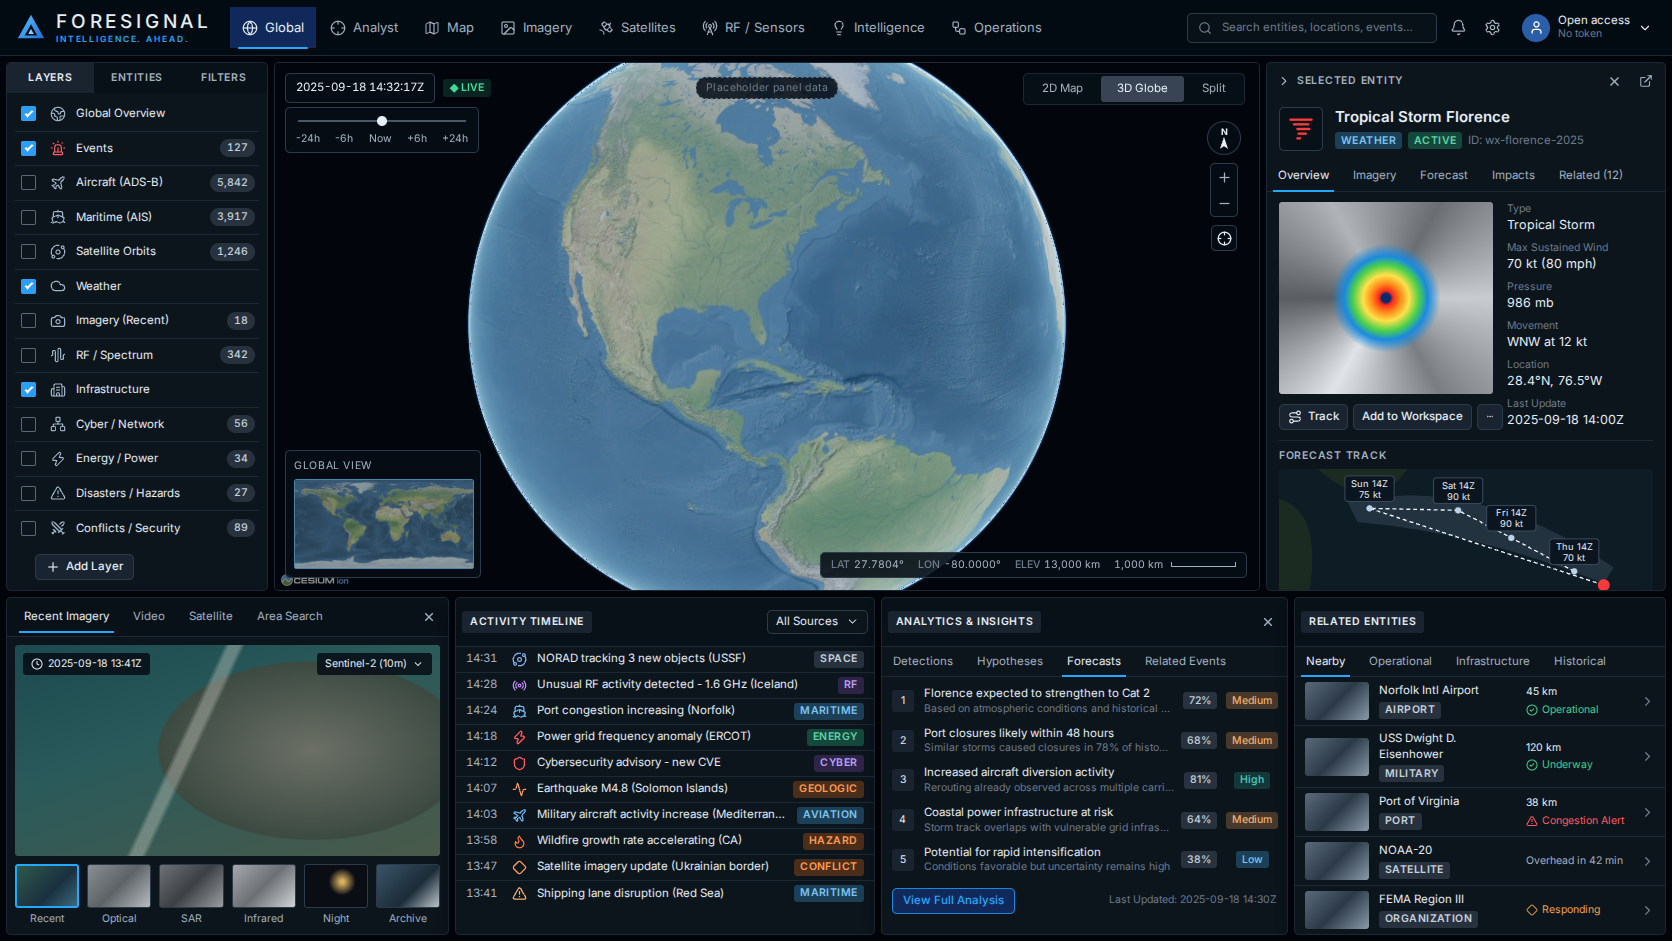
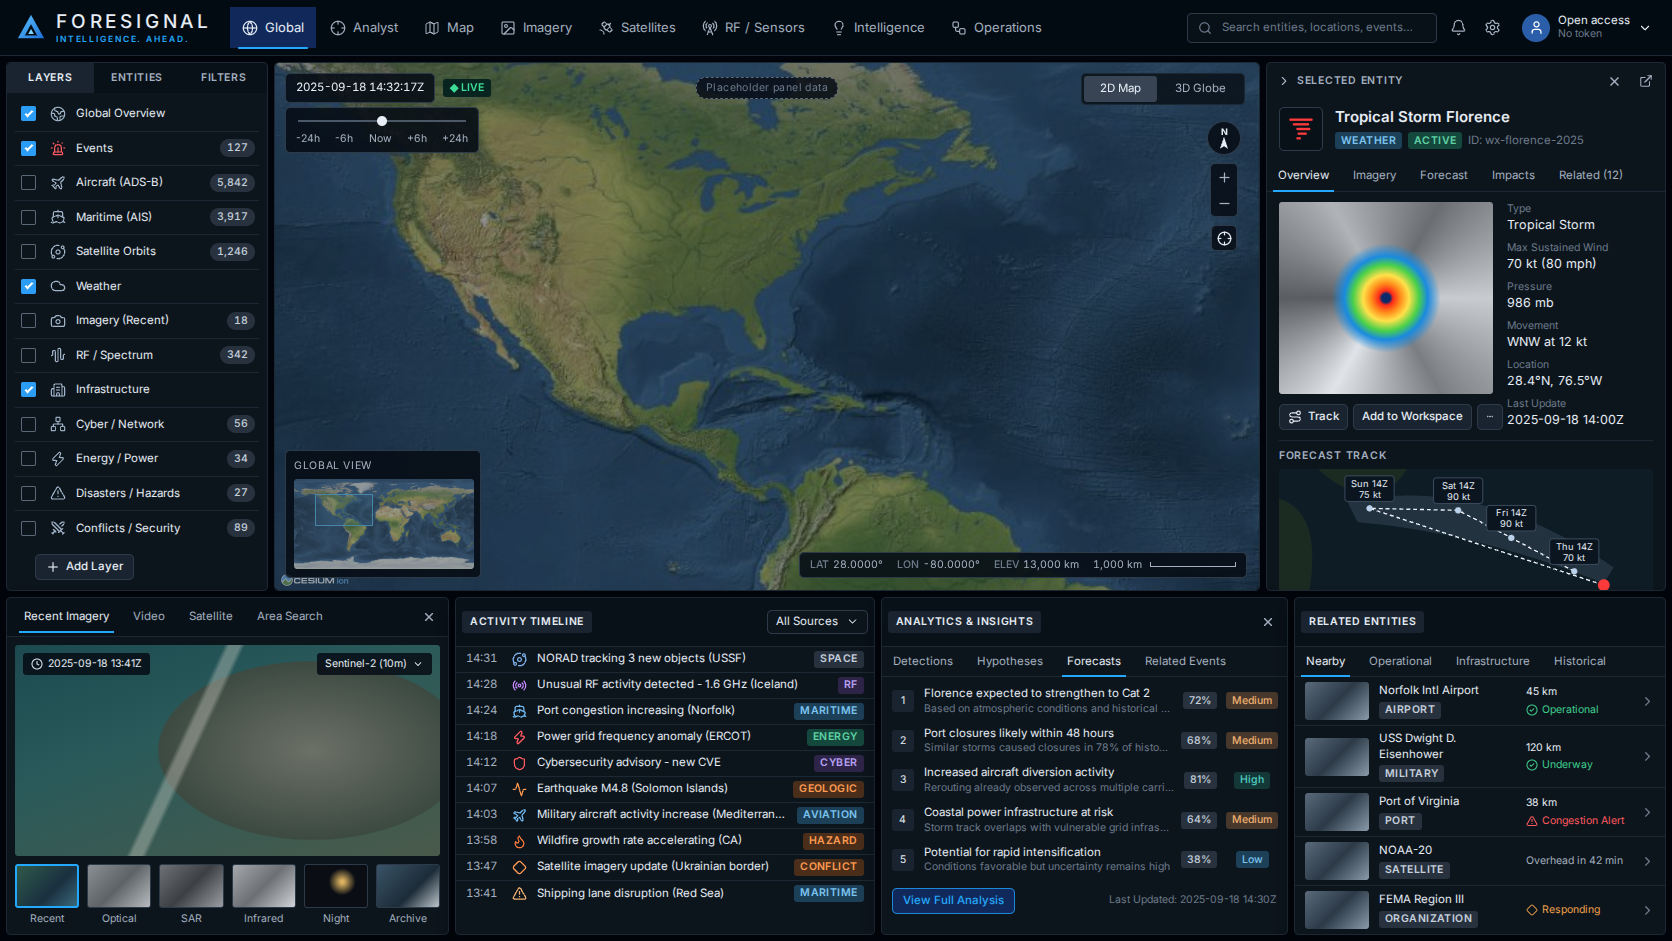
005: 2D by default, 2D/3D toggle, no Split
The map opens in 2D. The toggle offers 2D Map and 3D Globe only; Split
and Columbus view are removed, per the owner's map model (33cf4ff).
Switching modes keeps the user's place: Cesium's morph resets to a
whole-world view, so the camera is put back over the same ground point
at the same height when the morph completes.

Changed region(s): [[0.1555, 0.0616, 0.7775, 0.6472]]

diff --git a/src/map/Viewer.tsx b/src/map/Viewer.tsx
@@ -1,4 +1,4 @@
-import { useCallback, useEffect, useMemo, useState, type ReactNode } from 'react';
+import { useCallback, useEffect, useMemo, useRef, useState, type ReactNode } from 'react';
 import { Viewer as ResiumViewer, useCesium } from 'resium';
 import {
   Cartesian2,
@@ -9,17 +9,20 @@ import {
 import { createBaseLayer, insetTileUrls } from './imagery';
 import { MapHud, type CameraState } from './MapHud';
 import { niceScale } from './readout';
-import { applySceneMode, type SceneModeKey } from './sceneMode';
-import { homeDestination, styleScene, supportsWebGL } from './view';
+import { DEFAULT_SCENE_MODE, SCENE_MODES, type SceneModeKey } from './sceneMode';
+import { homeDestination, styleScene, supportsWebGL, switchSceneMode } from './view';
 import styles from './Viewer.module.css';
+
+/** How long a 2D/3D switch animates, in seconds. */
+const MORPH_SECONDS = 1;
 
 /** Widest scale bar, in CSS pixels. */
 const SCALE_MAX_PIXELS = 100;
 
 /**
  * Reads the camera into HUD state. Latitude and longitude are the ground point under the center of
- * the view, which is what a reader expects in every mode: in Columbus view a tilted camera sits
- * beyond the edge of the map, so its own position is not a place. When the center misses the
+ * the view, read the same way in 2D and 3D: a tilted 3D camera looks at a place other than the one
+ * beneath it, and the readout follows what is looked at. When the center misses the
  * globe (space behind a 3D limb), the camera's own position is used. Elevation is the camera's
  * height above the ellipsoid.
  */
@@ -133,20 +136,27 @@ export interface MapViewerProps {
 
 /**
  * The map engine: a Resium viewer with Cesium's own widgets removed, the bundled Natural Earth II
- * base layer, the 2D Map / 3D Globe / Split toggle, and the DOM HUD (compass, zoom, inset,
+ * base layer, the 2D Map / 3D Globe toggle (2D by default), and the DOM HUD (compass, zoom, inset,
  * lat/lon/elevation readout, scale bar). Renders at device pixel ratio for sharp output.
  */
 export function MapViewer({ children }: MapViewerProps) {
   const [webgl] = useState(supportsWebGL);
   const [viewer, setViewer] = useState<CesiumViewer>();
   const [camera, setCamera] = useState<CameraState>();
-  const [mode, setMode] = useState<SceneModeKey>('3d');
+  const [mode, setMode] = useState<SceneModeKey>(DEFAULT_SCENE_MODE);
   const insetTiles = useMemo(() => insetTileUrls(), []);
+
+  // The latest camera state, read when switching mode without re-creating the callback each frame.
+  const cameraRef = useRef<CameraState>(undefined);
+  const onCamera = useCallback((state: CameraState) => {
+    cameraRef.current = state;
+    setCamera(state);
+  }, []);
 
   const onSceneMode = useCallback(
     (next: SceneModeKey) => {
       setMode(next);
-      if (viewer) applySceneMode(viewer.scene, next, 1);
+      if (viewer) switchSceneMode(viewer, next, cameraRef.current, MORPH_SECONDS);
     },
     [viewer],
   );
@@ -204,9 +214,10 @@ export function MapViewer({ children }: MapViewerProps) {
         selectionIndicator={false}
         vrButton={false}
         skyBox={false}
+        sceneMode={SCENE_MODES[DEFAULT_SCENE_MODE]}
         useBrowserRecommendedResolution={false}
       >
-        <SceneBridge onReady={setViewer} onCamera={setCamera} />
+        <SceneBridge onReady={setViewer} onCamera={onCamera} />
       </ResiumViewer>
       <MapHud
         mode={mode}

diff --git a/src/map/view.test.ts b/src/map/view.test.ts
@@ -1,5 +1,12 @@
-import { Cartographic, Color, Math as CesiumMath, type Viewer as CesiumViewer } from 'cesium';
-import { HOME_VIEW, homeDestination, styleScene } from './view';
+import {
+  Cartographic,
+  Color,
+  Math as CesiumMath,
+  SceneMode,
+  type Cartesian3,
+  type Viewer as CesiumViewer,
+} from 'cesium';
+import { HOME_VIEW, homeDestination, styleScene, switchSceneMode } from './view';
 
 describe('view', () => {
   it('places the home destination at the home longitude, latitude and height', () => {
@@ -14,5 +21,64 @@ describe('view', () => {
     styleScene(viewer as unknown as CesiumViewer);
     expect(viewer.scene.backgroundColor.toCssHexString()).toBe('#02060c');
     expect(viewer.scene.globe.baseColor.toCssHexString()).toBe('#0b1a2a');
+  });
+});
+
+describe('switchSceneMode', () => {
+  /** A viewer stand-in whose morph completes when `finish()` is called. */
+  function fakeViewer(mode: SceneMode) {
+    const listeners = new Set<() => void>();
+    const morphs: string[] = [];
+    const views: Cartographic[] = [];
+    const viewer = {
+      scene: {
+        mode,
+        morphTo2D: () => morphs.push('2D'),
+        morphTo3D: () => morphs.push('3D'),
+        morphComplete: {
+          addEventListener: (listener: () => void) => {
+            listeners.add(listener);
+            return () => listeners.delete(listener);
+          },
+        },
+      },
+      camera: {
+        setView: ({ destination }: { destination: Cartesian3 }) =>
+          views.push(Cartographic.fromCartesian(destination)),
+      },
+    };
+    const finish = () => [...listeners].forEach((listener) => listener());
+    return { viewer, morphs, views, listeners, finish };
+  }
+
+  const florida = { longitude: -80, latitude: 28, height: 13_000_000 };
+
+  it('morphs, then puts the camera back over the same place at the same height', () => {
+    const { viewer, morphs, views, listeners, finish } = fakeViewer(SceneMode.SCENE2D);
+    expect(switchSceneMode(viewer, '3d', florida)).toBe(true);
+    expect(morphs).toEqual(['3D']);
+    expect(views).toEqual([]);
+    finish();
+    expect(views).toHaveLength(1);
+    expect(CesiumMath.toDegrees(views[0]!.longitude)).toBeCloseTo(-80, 6);
+    expect(CesiumMath.toDegrees(views[0]!.latitude)).toBeCloseTo(28, 6);
+    expect(views[0]!.height).toBeCloseTo(13_000_000, 0);
+    expect(listeners.size).toBe(0);
+  });
+
+  it('leaves no listener behind when already in the requested mode', () => {
+    const { viewer, morphs, listeners } = fakeViewer(SceneMode.SCENE3D);
+    expect(switchSceneMode(viewer, '3d', florida)).toBe(false);
+    expect(morphs).toEqual([]);
+    expect(listeners.size).toBe(0);
+  });
+
+  it('morphs without moving the camera when there is no place to keep', () => {
+    const { viewer, morphs, views, listeners, finish } = fakeViewer(SceneMode.SCENE3D);
+    expect(switchSceneMode(viewer, '2d', undefined)).toBe(true);
+    finish();
+    expect(morphs).toEqual(['2D']);
+    expect(views).toEqual([]);
+    expect(listeners.size).toBe(0);
   });
 });

diff --git a/src/map/sceneMode.test.ts b/src/map/sceneMode.test.ts
@@ -1,5 +1,11 @@
 import { SceneMode } from 'cesium';
-import { applySceneMode, SCENE_MODES, sceneModeKey, type MorphableScene } from './sceneMode';
+import {
+  applySceneMode,
+  DEFAULT_SCENE_MODE,
+  SCENE_MODES,
+  sceneModeKey,
+  type MorphableScene,
+} from './sceneMode';
 
 /** A scene stand-in that records the morph calls it receives. */
 function fakeScene(mode: SceneMode): MorphableScene & { calls: string[] } {
@@ -9,33 +15,33 @@ function fakeScene(mode: SceneMode): MorphableScene & { calls: string[] } {
     calls,
     morphTo2D: (d) => calls.push(`2D:${d}`),
     morphTo3D: (d) => calls.push(`3D:${d}`),
-    morphToColumbusView: (d) => calls.push(`CV:${d}`),
   };
 }
 
 describe('scene modes', () => {
-  it('maps 2D Map, 3D Globe and Split to Cesium modes, Split as Columbus view', () => {
-    expect(SCENE_MODES['2d']).toBe(SceneMode.SCENE2D);
-    expect(SCENE_MODES['3d']).toBe(SceneMode.SCENE3D);
-    expect(SCENE_MODES.split).toBe(SceneMode.COLUMBUS_VIEW);
+  it('opens in 2D and offers only 2D and 3D', () => {
+    expect(DEFAULT_SCENE_MODE).toBe('2d');
+    expect(SCENE_MODES).toEqual({ '2d': SceneMode.SCENE2D, '3d': SceneMode.SCENE3D });
   });
 
-  it('reads a Cesium mode back as a design mode, and morphing as none', () => {
+  it('reads a Cesium mode back as a map mode; morphing and Columbus view as none', () => {
     expect(sceneModeKey(SceneMode.SCENE2D)).toBe('2d');
-    expect(sceneModeKey(SceneMode.COLUMBUS_VIEW)).toBe('split');
+    expect(sceneModeKey(SceneMode.SCENE3D)).toBe('3d');
     expect(sceneModeKey(SceneMode.MORPHING)).toBeUndefined();
+    expect(sceneModeKey(SceneMode.COLUMBUS_VIEW)).toBeUndefined();
   });
 
   it('morphs to the requested mode with the given duration', () => {
-    const scene = fakeScene(SceneMode.SCENE3D);
-    expect(applySceneMode(scene, '2d', 0.5)).toBe(true);
-    expect(applySceneMode(scene, 'split')).toBe(true);
-    expect(scene.calls).toEqual(['2D:0.5', 'CV:1']);
+    const scene = fakeScene(SceneMode.SCENE2D);
+    expect(applySceneMode(scene, '3d', 0.5)).toBe(true);
+    scene.mode = SceneMode.SCENE3D;
+    expect(applySceneMode(scene, '2d')).toBe(true);
+    expect(scene.calls).toEqual(['3D:0.5', '2D:1']);
   });
 
   it('does nothing when already in the requested mode', () => {
-    const scene = fakeScene(SceneMode.SCENE3D);
-    expect(applySceneMode(scene, '3d')).toBe(false);
+    const scene = fakeScene(SceneMode.SCENE2D);
+    expect(applySceneMode(scene, '2d')).toBe(false);
     expect(scene.calls).toEqual([]);
   });
 });

diff --git a/src/map/sceneMode.ts b/src/map/sceneMode.ts
@@ -1,24 +1,23 @@
 import { SceneMode } from 'cesium';
 
-/** The design's map modes: 2D Map, 3D Globe and Split. */
-export type SceneModeKey = '2d' | '3d' | 'split';
+/** The map's two modes: the 2D map (the default) and the 3D globe. There is no Split mode. */
+export type SceneModeKey = '2d' | '3d';
 
-/**
- * Cesium scene mode for each design mode. "Split" is Columbus view (2.5D), per
- * Architecture §5.
- */
+/** The mode the map opens in. */
+export const DEFAULT_SCENE_MODE: SceneModeKey = '2d';
+
+/** Cesium scene mode for each map mode. */
 export const SCENE_MODES: Record<SceneModeKey, SceneMode> = {
   '2d': SceneMode.SCENE2D,
   '3d': SceneMode.SCENE3D,
-  split: SceneMode.COLUMBUS_VIEW,
 };
 
-/** The design mode for a Cesium scene mode; `MORPHING` reports as undefined. */
+/** The map mode for a Cesium scene mode; `MORPHING` and Columbus view report as undefined. */
 export function sceneModeKey(mode: SceneMode): SceneModeKey | undefined {
   return (Object.keys(SCENE_MODES) as SceneModeKey[]).find((key) => SCENE_MODES[key] === mode);
 }
 
-/** The scene methods used to change mode; matches `Scene` from Cesium. */
+/** The scene members used to change mode; matches `Scene` from Cesium. */
 export interface MorphableScene {
   /** Current mode. */
   mode: SceneMode;
@@ -26,18 +25,15 @@ export interface MorphableScene {
   morphTo2D(duration?: number): void;
   /** Morphs to the 3D globe. */
   morphTo3D(duration?: number): void;
-  /** Morphs to Columbus view (2.5D). */
-  morphToColumbusView(duration?: number): void;
 }
 
 /**
- * Morphs `scene` to the requested design mode over `duration` seconds. Returns false when the
- * scene is already in that mode.
+ * Morphs `scene` to the requested map mode over `duration` seconds. Returns false when the scene
+ * is already in that mode.
  */
 export function applySceneMode(scene: MorphableScene, key: SceneModeKey, duration = 1): boolean {
   if (scene.mode === SCENE_MODES[key]) return false;
   if (key === '2d') scene.morphTo2D(duration);
-  else if (key === '3d') scene.morphTo3D(duration);
-  else scene.morphToColumbusView(duration);
+  else scene.morphTo3D(duration);
   return true;
 }

diff --git a/src/map/view.ts b/src/map/view.ts
@@ -1,4 +1,5 @@
 import { Cartesian3, Color, type Viewer as CesiumViewer } from 'cesium';
+import { applySceneMode, type MorphableScene, type SceneModeKey } from './sceneMode';
 
 /** The default view: the western Atlantic and North America, as in the primary mockup. */
 export const HOME_VIEW = { longitude: -80, latitude: 28, height: 13_000_000 } as const;
@@ -22,4 +23,48 @@ export function supportsWebGL(): boolean {
 export function styleScene(viewer: CesiumViewer): void {
   viewer.scene.backgroundColor = Color.fromCssColorString('#02060c');
   viewer.scene.globe.baseColor = Color.fromCssColorString('#0b1a2a');
+}
+
+/** A place to look at: a ground point and a camera height above it. */
+export interface GroundView {
+  /** Longitude, degrees. */
+  longitude: number;
+  /** Latitude, degrees. */
+  latitude: number;
+  /** Camera height, meters. */
+  height: number;
+}
+
+/** The members of a viewer that {@link switchSceneMode} uses; matches Cesium's `Viewer`. */
+export interface SwitchableViewer {
+  /** The scene to morph, with its morph-complete event. */
+  scene: MorphableScene & {
+    morphComplete: { addEventListener(listener: () => void): () => void };
+  };
+  /** The camera to put back over `keep` once the morph is done. */
+  camera: { setView(options: { destination: Cartesian3 }): void };
+}
+
+/**
+ * Switches the map between 2D and 3D and keeps the user's place. Cesium's morph resets the camera
+ * to a whole-world view; when `keep` is given, the camera is put back over the same ground point at
+ * the same height as soon as the morph completes. Returns false when already in that mode.
+ */
+export function switchSceneMode(
+  viewer: SwitchableViewer,
+  key: SceneModeKey,
+  keep: GroundView | undefined,
+  duration = 1,
+): boolean {
+  const remove = keep
+    ? viewer.scene.morphComplete.addEventListener(() => {
+        remove?.();
+        viewer.camera.setView({
+          destination: Cartesian3.fromDegrees(keep.longitude, keep.latitude, keep.height),
+        });
+      })
+    : undefined;
+  const changed = applySceneMode(viewer.scene, key, duration);
+  if (!changed) remove?.();
+  return changed;
 }

diff --git a/src/map/MapHud.test.tsx b/src/map/MapHud.test.tsx
@@ -53,12 +53,13 @@ describe('MapHud', () => {
     expect(screen.getByTestId('compass-needle')).toHaveStyle({ transform: 'rotate(-30deg)' });
   });
 
-  it('marks the current mode and reports a mode change', async () => {
+  it('offers 2D Map and 3D Globe only, marks the current one and reports a change', async () => {
     const user = userEvent.setup();
-    const { onSceneMode } = renderHud(camera, { mode: 'split' });
-    expect(screen.getByRole('tab', { name: 'Split' })).toHaveAttribute('aria-selected', 'true');
-    await user.click(screen.getByRole('tab', { name: '2D Map' }));
-    expect(onSceneMode).toHaveBeenCalledWith('2d');
+    const { onSceneMode } = renderHud(camera, { mode: '2d' });
+    expect(screen.getAllByRole('tab').map((t) => t.textContent)).toEqual(['2D Map', '3D Globe']);
+    expect(screen.getByRole('tab', { name: '2D Map' })).toHaveAttribute('aria-selected', 'true');
+    await user.click(screen.getByRole('tab', { name: '3D Globe' }));
+    expect(onSceneMode).toHaveBeenCalledWith('3d');
   });
 
   it('drives zoom, reset north and home', async () => {

diff --git a/src/map/MapHud.tsx b/src/map/MapHud.tsx
@@ -53,7 +53,7 @@ const INSET_WIDTH = 180;
 const INSET_HEIGHT = 90;
 
 /**
- * The map's HUD, drawn as DOM over the canvas (not Cesium widgets): the 2D/3D/Split toggle,
+ * The map's HUD, drawn as DOM over the canvas (not Cesium widgets): the 2D Map / 3D Globe toggle,
  * compass and zoom, the global-view inset with the visible area, and the lat/lon/elevation
  * readout with a scale bar.
  */
@@ -77,7 +77,6 @@ export function MapHud({
         items={[
           { key: '2d', label: '2D Map' },
           { key: '3d', label: '3D Globe' },
-          { key: 'split', label: 'Split' },
         ]}
       />
 

diff --git a/src/map/index.ts b/src/map/index.ts
@@ -1,9 +1,18 @@
 /** Map engine: the Cesium viewer, scene modes, base imagery and the HUD. */
 export { MapViewer, type MapViewerProps } from './Viewer';
-export { HOME_VIEW, homeDestination, styleScene, supportsWebGL } from './view';
+export {
+  HOME_VIEW,
+  homeDestination,
+  styleScene,
+  supportsWebGL,
+  switchSceneMode,
+  type GroundView,
+  type SwitchableViewer,
+} from './view';
 export { MapHud, type CameraState, type MapHudActions, type MapHudProps } from './MapHud';
 export {
   applySceneMode,
+  DEFAULT_SCENE_MODE,
   SCENE_MODES,
   sceneModeKey,
   type MorphableScene,

diff --git a/src/views/screens.tsx b/src/views/screens.tsx
@@ -19,7 +19,7 @@ export function MapView() {
     <PlaceholderView
       icon={Map}
       title="Map"
-      description="The full 2D map / 3D globe / split view with every layer."
+      description="The full 2D map and 3D globe with every layer."
       builtIn="005–010"
     />
   );

diff --git a/src/ui/Tabs.module.css b/src/ui/Tabs.module.css
@@ -54,7 +54,7 @@
   background: var(--fs-color-raised);
 }
 
-/* Pill variant: segmented control, as the 2D Map / 3D Globe / Split toggle. */
+/* Pill variant: segmented control, as the 2D Map / 3D Globe toggle. */
 .pill {
   gap: 2px;
   padding: 2px;
